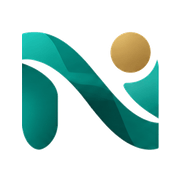
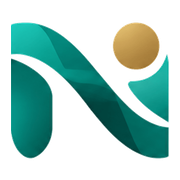
fix(brand): أيقونات المنصّة تملأ إطارها — نفس عطل أيقونات التجار
لقطةُ شاشةٍ ثانية من هاتف صاحب المنصّة. وقياسٌ على ملفّات المستودع:
أيقونات المنصّة السبع كلّها العلامةُ على خلفيةٍ بيضاء **بهوامش**
(امتلاء ٧٠٪)، ثم يُصغّرها مشغّل أندرويد داخل مربّعه هو ⇒ التصغير
مرّتان، والنتيجة شعارٌ صغير ضائع في وسط بياض. وهو العطل نفسه الذي
أُصلح للتجار في 057b87d، باقيًا في أيقونات المنصّة.

الآن تُولَّد من `public/brand/mark.png` ممتلئة: `any` و
`apple-touch-icon` عند ٨٨٪، و`maskable` عند ٧٤٪ (أضيق لأن المشغّل
يقصّ أطرافها، فالعلامة داخل منطقة الأمان والخلفية تمتدّ إلى الحواف).

★ وجُرّبت الخلفية الداكنة ورُفضت: العلامة تعتمد على فراغٍ أبيض داخل
  الحرف، فالداكن يملؤه ويُفسد التصميم.

★ وحارسٌ يقيس نسبة الامتلاء بعد قصّ الحواف لكل ملفّ أيقونة — سقط
  بالطفرة (أُعيدت أيقونة بهوامش فأبلغ «تملأ ٧٠٪ والمطلوب ٨٥٪»).

وتحقّقٌ مباشر على الإنتاج لأيقونة التاجر (لا ادّعاء):
  GET https://ahmed-dooko.nilemarket.online/store-icon/{192,512,maskable,apple}
  ⇒ 200 · image/png · ١٩٢×١٩٢ و٥١٢×٥١٢ و٥١٢×٥١٢ و١٨٠×١٨٠ · بلا شفافية
  · لون الحواف rgb(8,8,8) أي بطاقة التاجر السوداء تملأ الإطار.
  والبيان يُعلن الثلاثة من `/store-icon/*`، وHTML فيه
  `<link rel="apple-touch-icon" href="/store-icon/apple">`.

التحقّق: typecheck · build · ٢٠٧ اختبار وحدة.

Claude-Session: https://claude.ai/code/session_01WFYYHj6T2HTG7z2EKE3dYX

Changed region(s): [[0.0556, 0.1111, 0.9444, 0.8889], [0.6667, 0.6111, 0.7222, 0.75], [0.2778, 0.3611, 0.3056, 0.3889]]

diff --git a/CLAUDE.md b/CLAUDE.md
@@ -120,6 +120,11 @@ update` على `products` و`product_variants`، والقيمة تُحسب من 
   معتمة تملأ إطارها، فحشوُها بأبيض يصنع إطارًا حولها ثم يُصغّرها
   المشغّل داخل مربّعه هو ⇒ شعارٌ ضائع في وسط بياض. وهامش الأمان ٢٠٪
   للقناع يلزم المارِك الشفّاف وحده.
+- **الأيقونة تملأ إطارها — وأيقونات المنصّة كذلك.** مشغّل أندرويد
+  يُصغّر الأيقونة داخل مربّعه، فهامشٌ في ملفّنا يُضاعَف ⇒ شعارٌ ضائع في
+  بياض. وحارسٌ يقيس نسبة الامتلاء بعد قصّ الحواف: `any` ≥ ٨٥٪،
+  و`maskable` ≥ ٧٠٪. وأيقونةٌ مثبَّتة على الهاتف **تُجمَّد لحظة
+  التثبيت**: لا يغيّرها نشرٌ جديد، بل إعادةُ التثبيت.
 - **أيقونة التثبيت ليست أيقونةً واحدة.** iOS يتجاهل `manifest`
   ويقرأ `<link rel="apple-touch-icon">` وحده، وأندرويد يُفضّل أيقونة
   `maskable` على `any`. فأيقونةٌ صحيحة في البيان لا تكفي: الثلاثة
@@ -151,7 +156,7 @@ update` على `products` و`product_variants`، والقيمة تُحسب من 
 ```bash
 npm run typecheck                      # tsc --noEmit
 npm run build                          # next build
-npm run test:unit                      # ٢٠٦ اختبارًا بنيويًّا — استعمل هذا الأمر
+npm run test:unit                      # ٢٠٧ اختبارًا بنيويًّا — استعمل هذا الأمر
 DB=nile_check ./scripts/test-db.sh     # كل اختبارات القاعدة + التزامن
 ```
 
